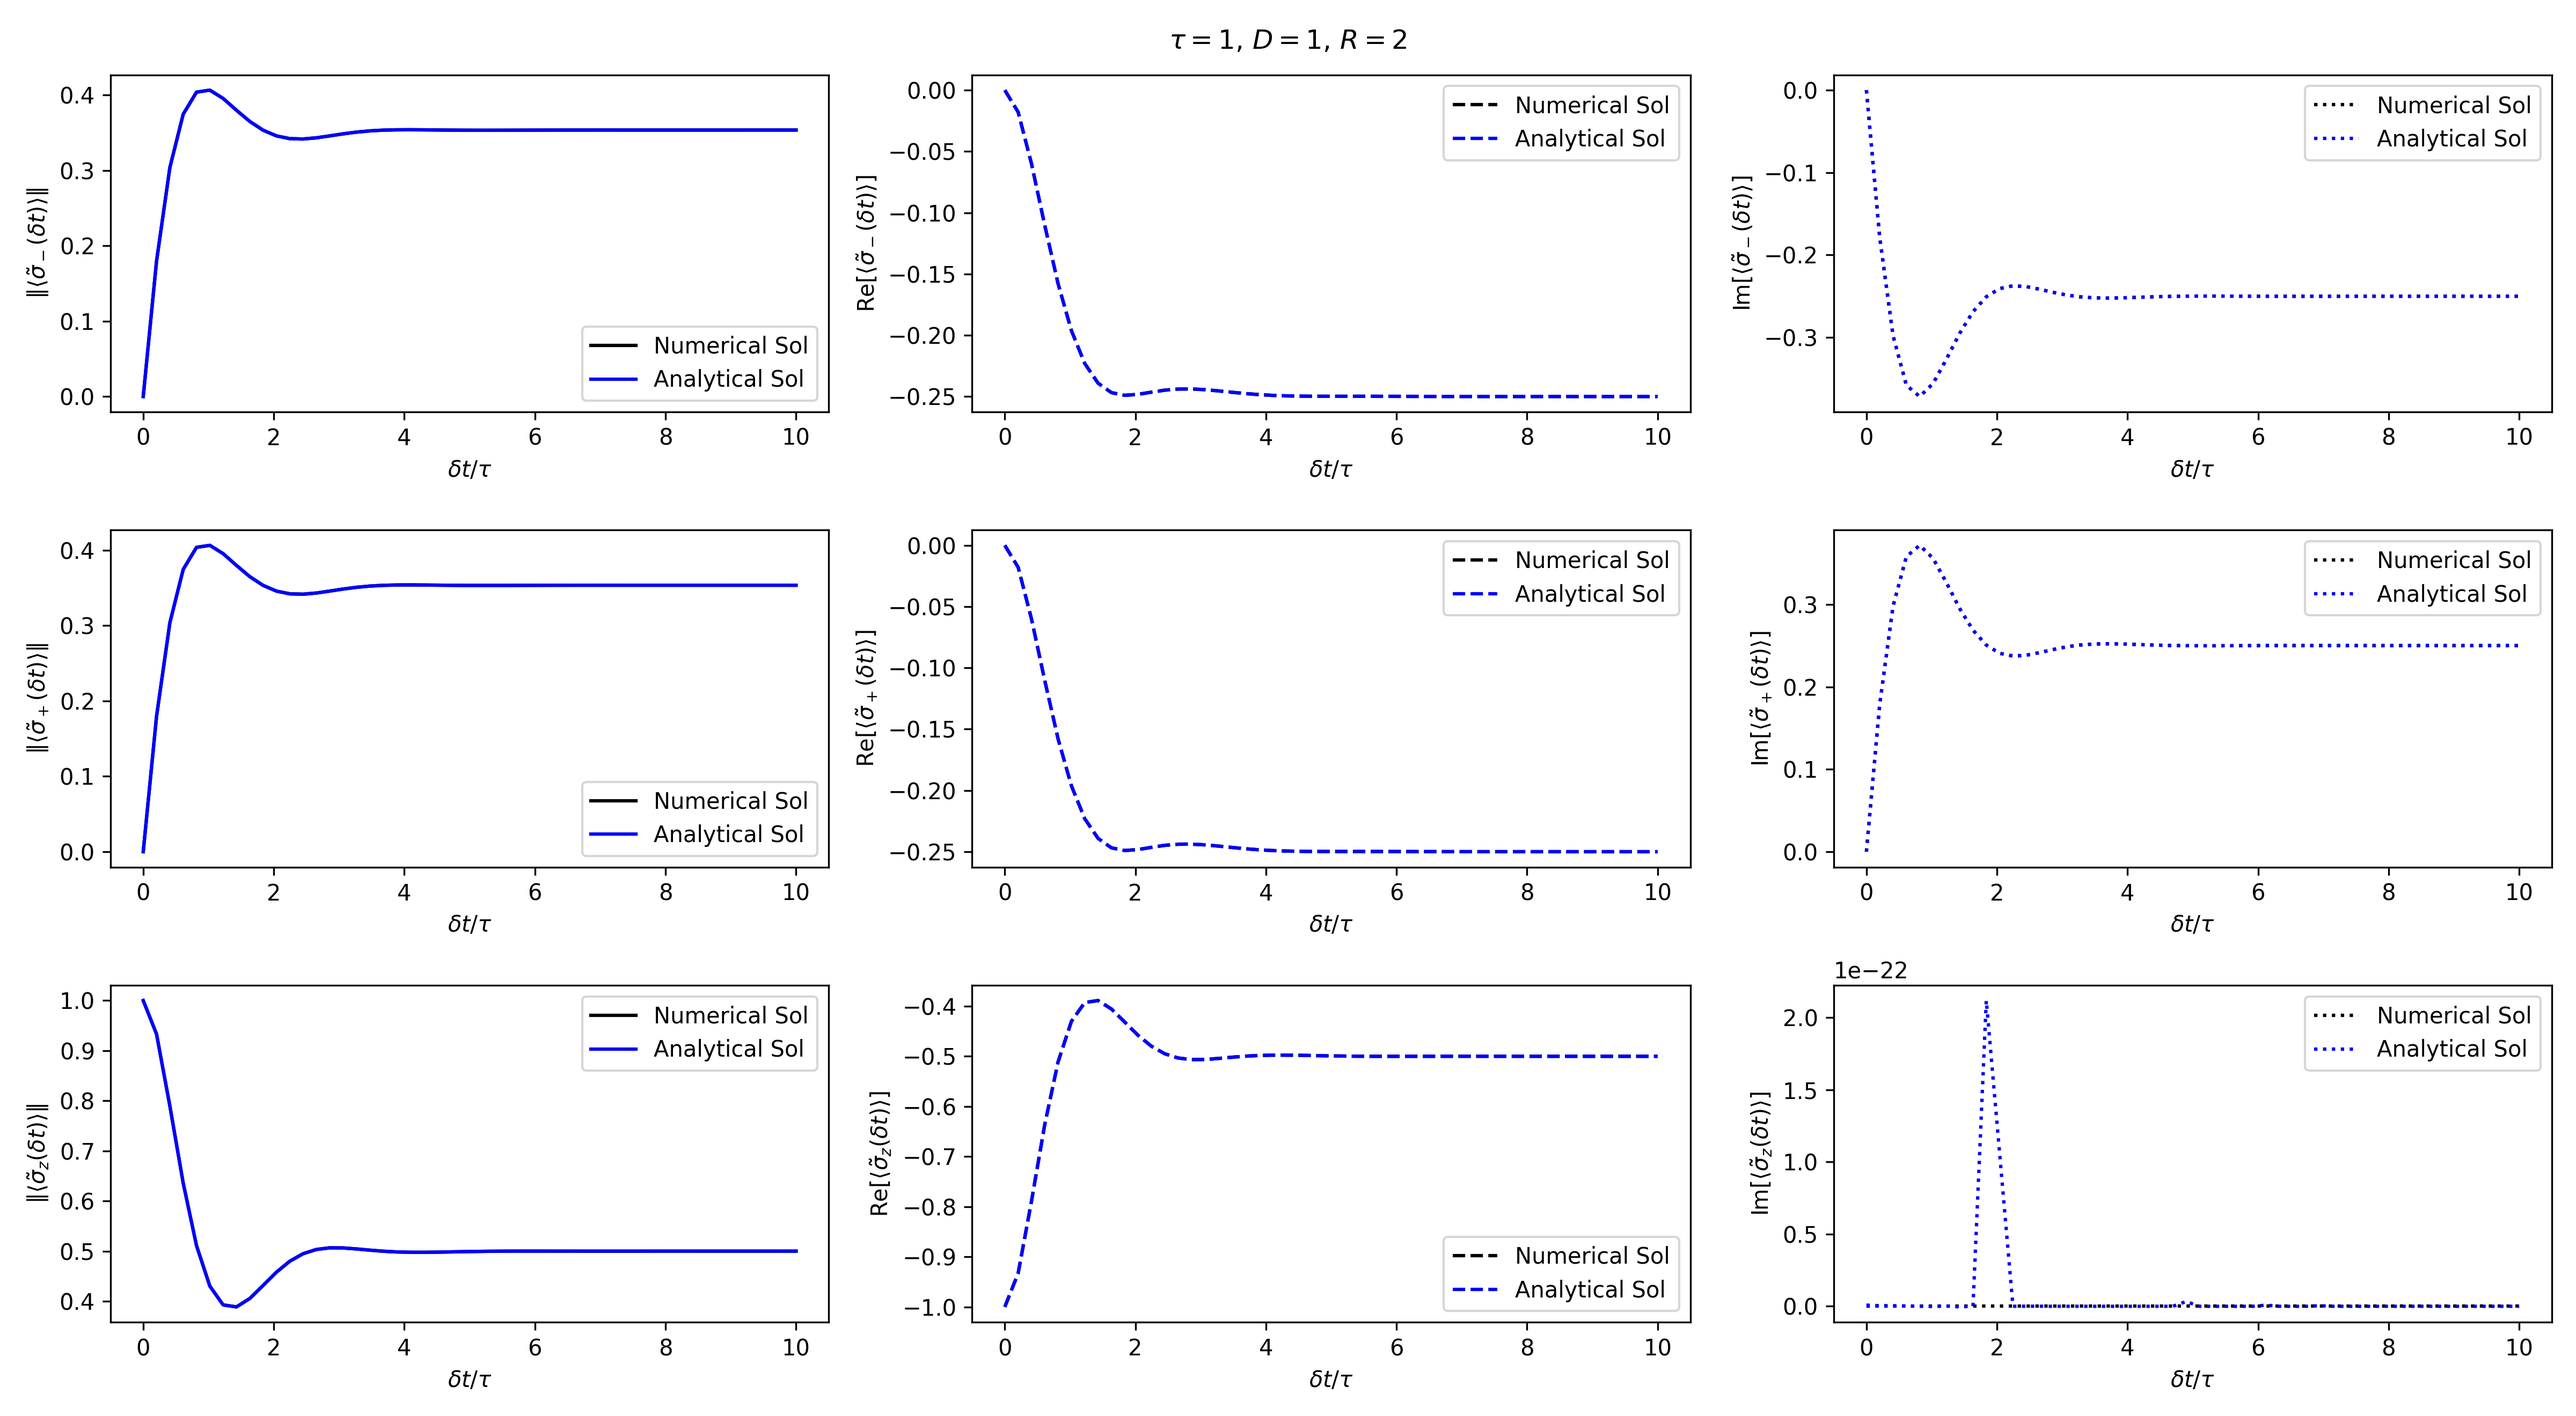
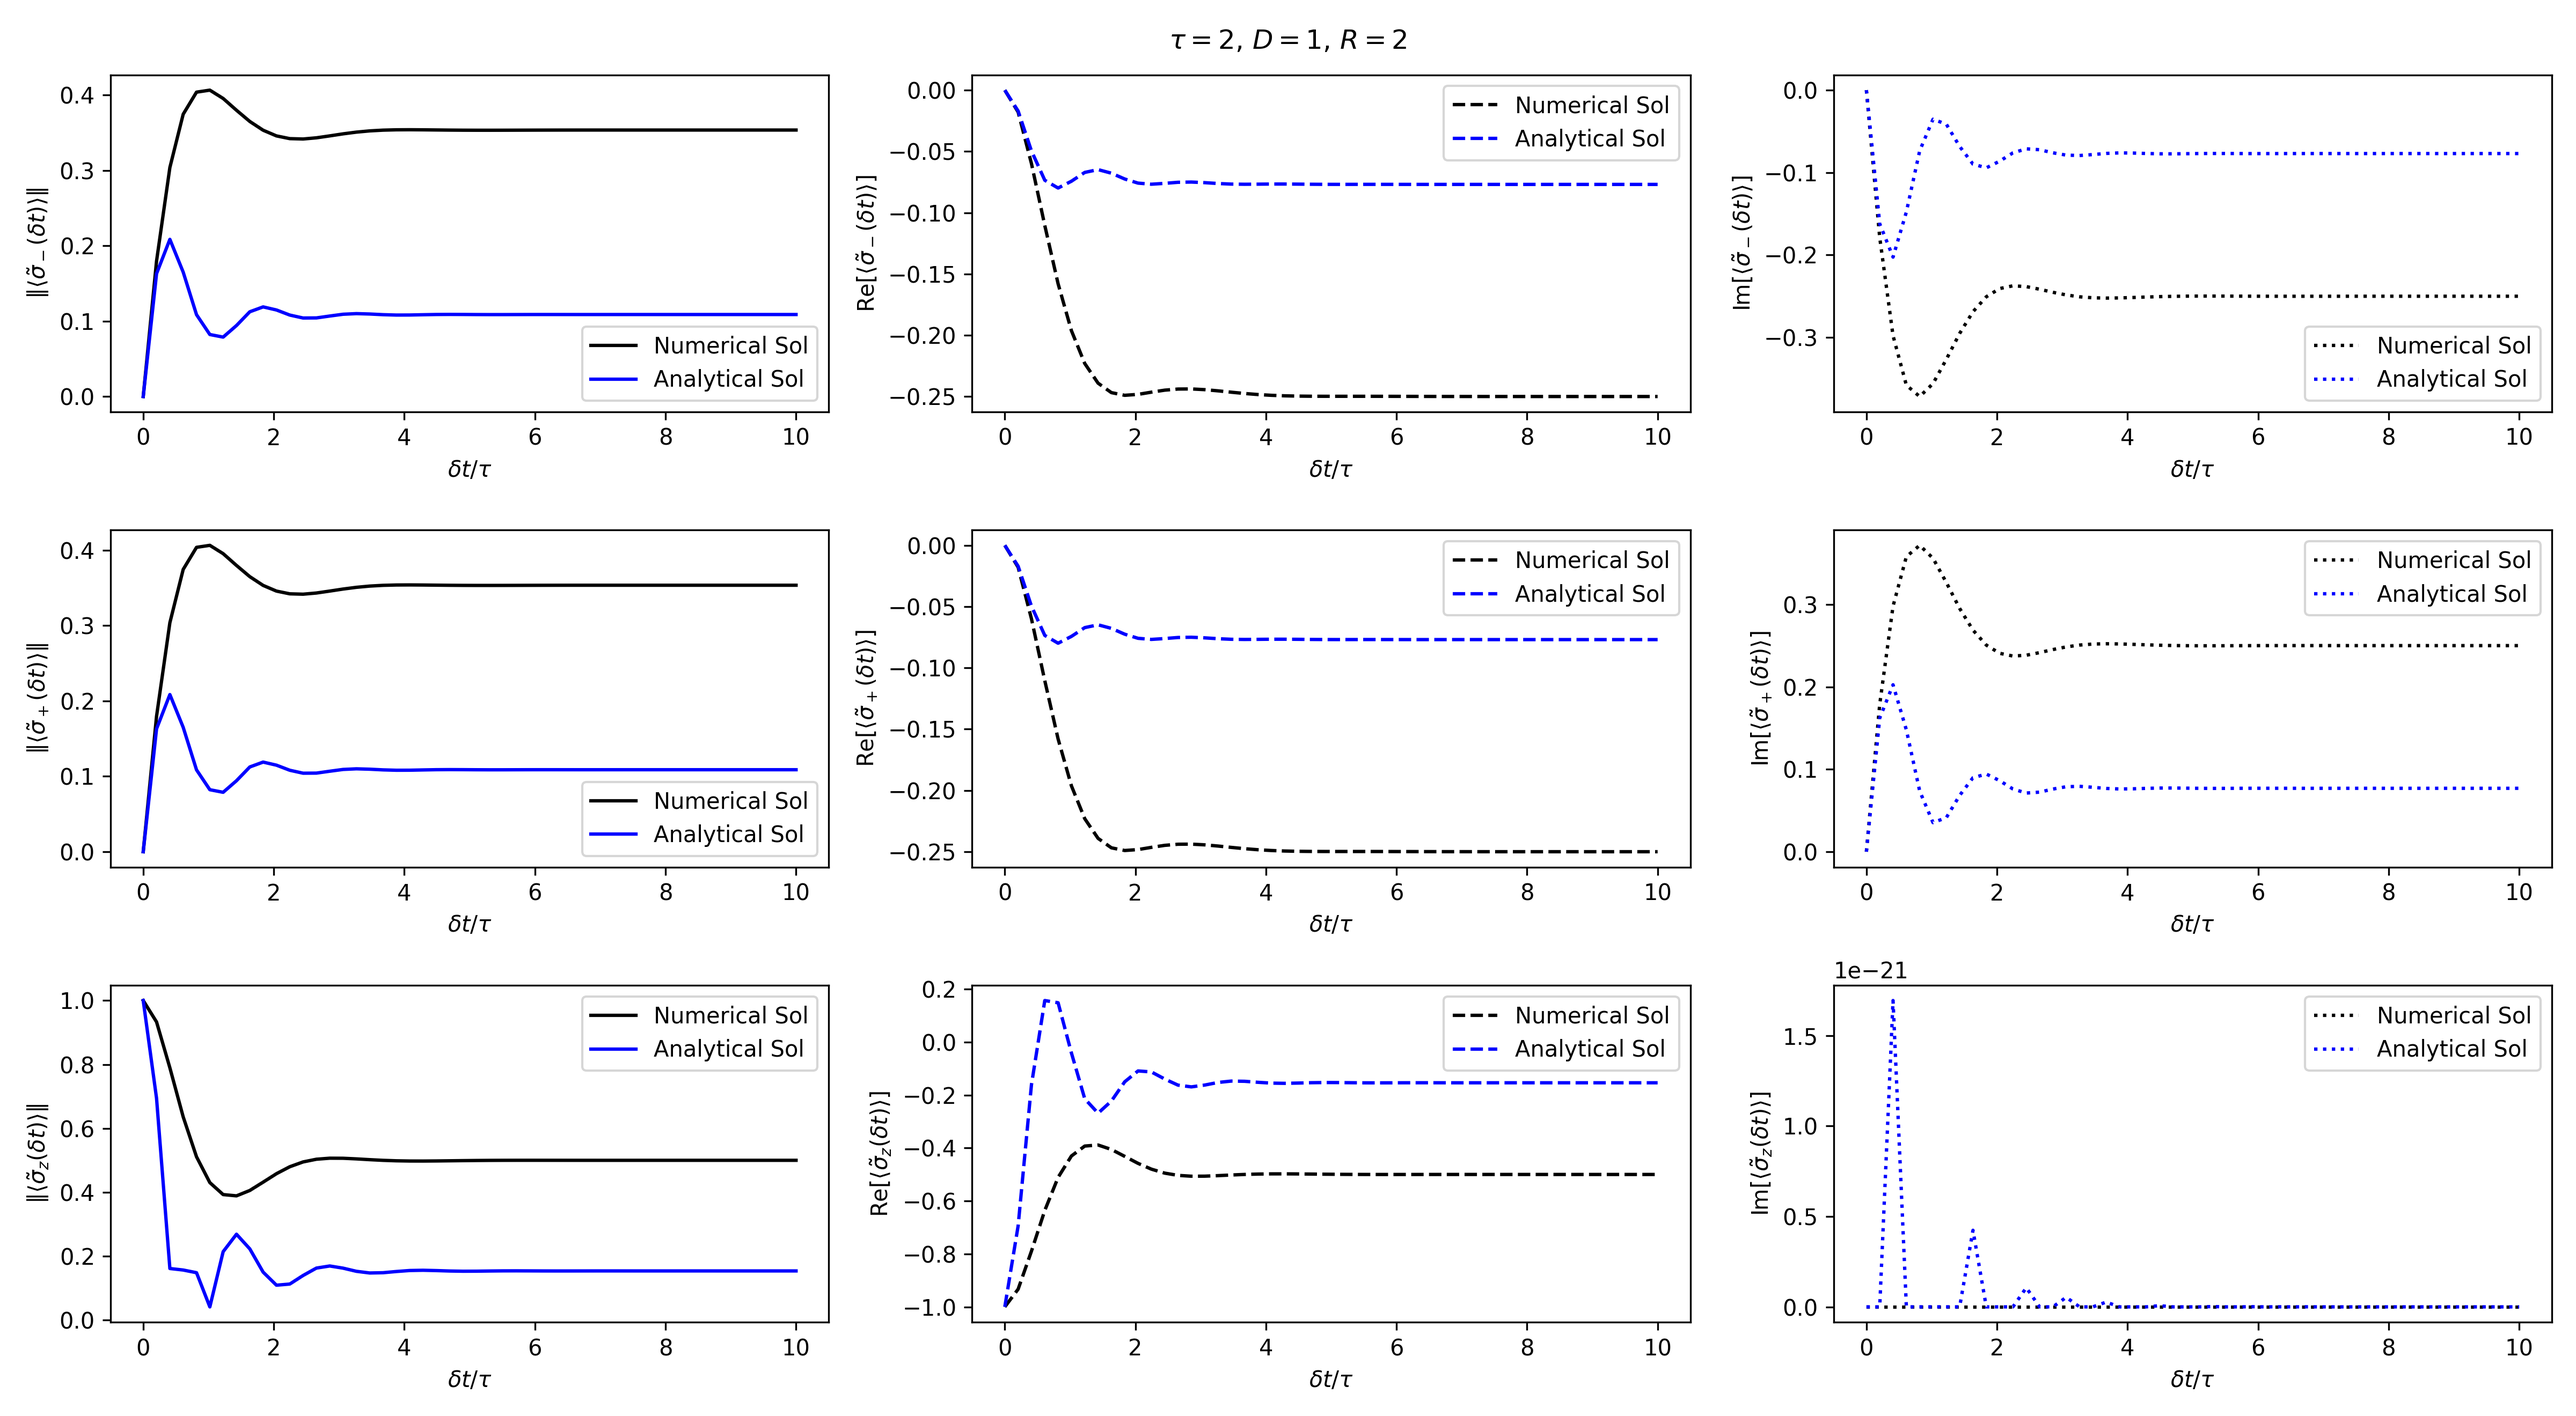
Changed it so that tAxis and tDomain are in terms of tau, but whenever passing into a function that uses absolute time we multiply them by tau. This makes it so that when we are plotting using tAxis, we actually plot dt / tau.

diff --git a/integrate.py b/integrate.py
@@ -3,7 +3,7 @@ import scipy.integrate as integrate
 import matplotlib.pyplot as plt
 import sympy
 
-tau = 1             # Characteristic decay scale.
+tau = 2             # Characteristic decay scale.
 detuningFreq = 1    # Normalised detuning frequency, described in Appendix B. Denoted D in the paper.
 rabiFreq = 2        # Normalised rabi frequency, described in appendix B. Denoted R in the paper.
 
@@ -86,14 +86,14 @@ for n in np.arange(2):
     """
 
     # The points within the range (0, timeLimit) we will evaluate the numerical solution at.
-    tDomain = (1e-6 * tau, 10 * tau)
-    tAxis = np.linspace(tDomain[0], tDomain[1], 50) * tau
+    tDomain = np.array([1e-6, 10])
+    tAxis = np.linspace(tDomain[0], tDomain[1], 50)
 
     # Numerically solves the ODE.
     numericalSol = integrate.solve_ivp(fun=TimeIndependentBlochEquations,
-                                       t_span=tDomain,
+                                       t_span=tDomain * tau,
                                        y0=initialConditions,
-                                       t_eval=tAxis,
+                                       t_eval=tAxis * tau,
                                        rtol=1e-10,
                                        atol=1e-12,
                                        args=(inhomTerm,))
@@ -149,7 +149,7 @@ for n in np.arange(2):
     for i in np.arange(tAxis.size):
         if (round(i / tAxis.size * 100, 1) == round(i / tAxis.size * 100)):
             print(f"{i / tAxis.size * 100:.0f}%")
-        analyticalSamples[:, :, i] = analyticalFunc(tAxis[i])
+        analyticalSamples[:, :, i] = analyticalFunc(tAxis[i] * tau)
 
     # ========================================
     # ==== PLOTTING TIME DOMAIN SOLUTIONS ====
